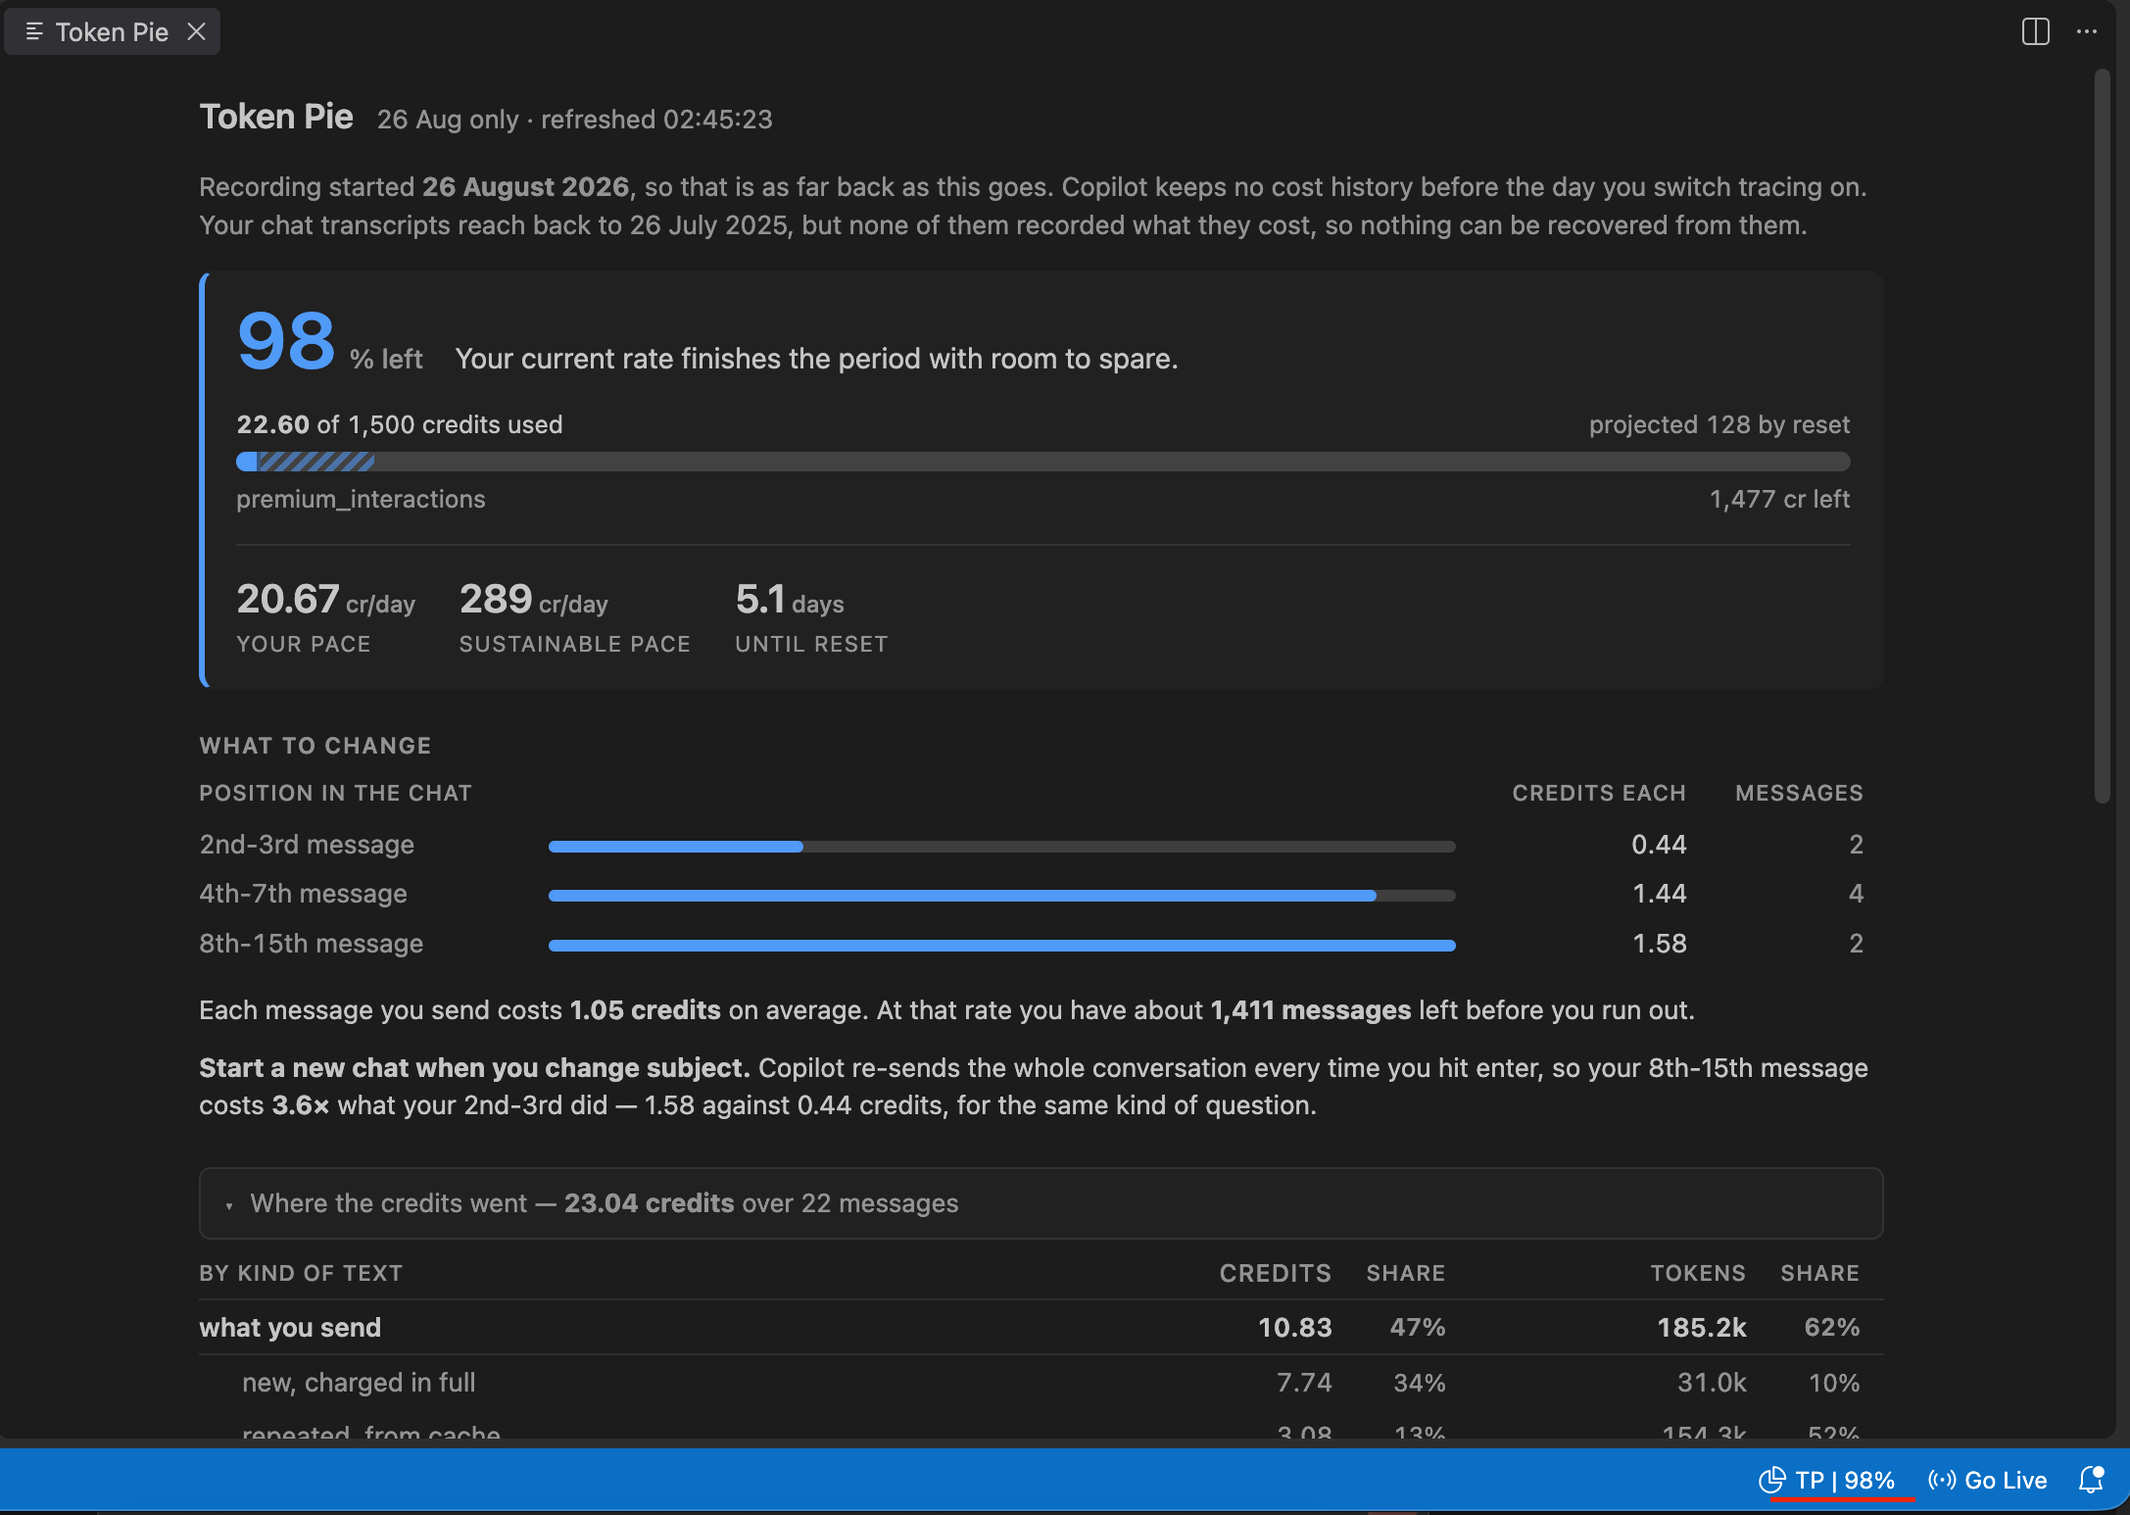
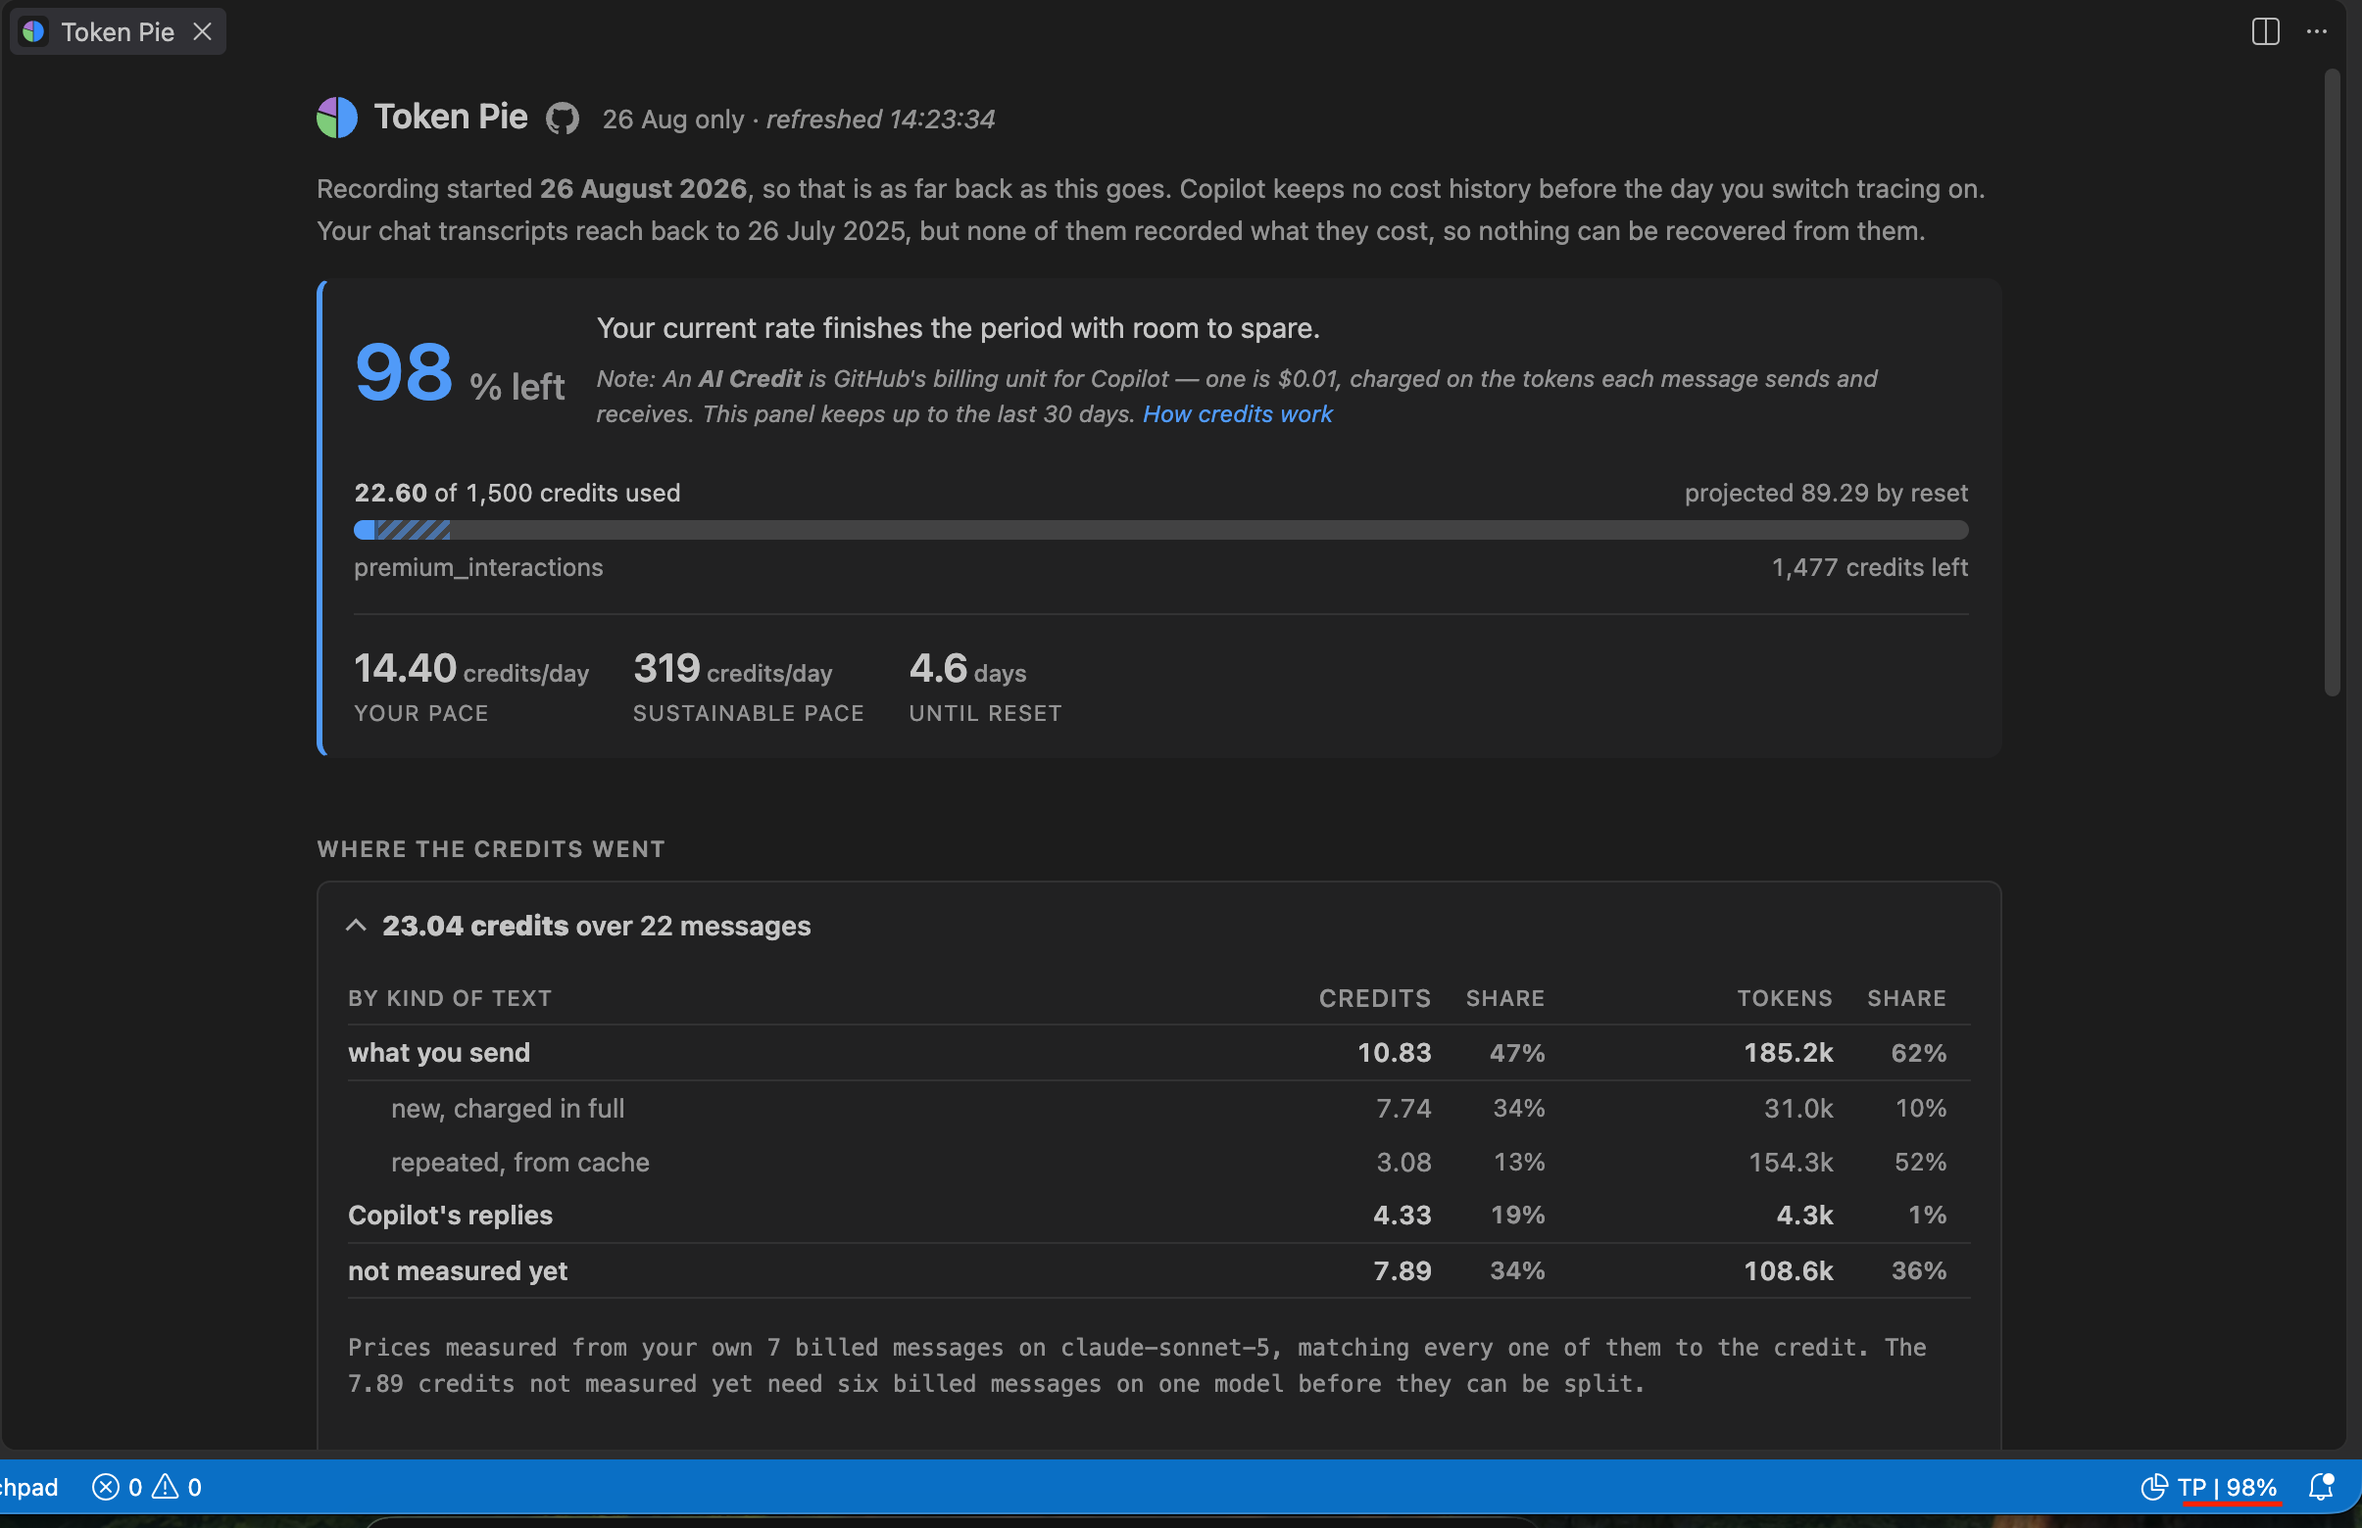
fix: aesthetic improvements

diff --git a/CHANGELOG.md b/CHANGELOG.md
@@ -2,40 +2,46 @@
 
 ## 0.1.7
 
-Fixes the **What to change** section showing no recommendations on accounts with
-a large allowance. A finding had to be worth 1% of the credits you have left, so
-on a plan with a few thousand credits remaining nothing qualified until you were
-already close to the cap. A recommendation now also appears when it accounts for
-a real share of what you have actually spent.
+### Fixed
 
-Recommendations are still withheld below ten messages of history, where there is
-not yet enough to call anything a habit.
+- **Recommendations never appeared on accounts with a large allowance.** A
+  finding had to be worth 1% of the credits remaining, so on a plan with a few
+  thousand left nothing qualified until you were already near the cap — the
+  **What to change** section stayed empty however much you spent. A
+  recommendation now also appears when it accounts for a real share of what you
+  have actually spent.
+- The timestamp beside the title no longer drifts out of line with it.
 
-Findings that give an upper bound rather than a measurement now say, on hover,
-what the bound assumes.
+### Changed
 
-Layout: recommendations no longer sit flush against each other or against the
-text above them, and the advice text is shorter. Every collapsible section now
-shares one header style and a clearer chevron, so it is obvious what can be
-opened. **Where the credits went** is now its own section rather than appearing
-to be part of **What to change**, so recommendations are no longer mixed in with
-reference figures, and it now comes first — advice about spend you have not
-looked at yet is hard to act on. Recommendations start collapsed.
+- **Where the credits went** is its own section and now comes first; advice
+  about spend you have not looked at yet is hard to act on. It was previously
+  indistinguishable from a recommendation.
+- Recommendations start collapsed, share one header style with the breakdowns,
+  and carry a clearer chevron so it is obvious what can be opened.
+- Spend is labelled **credits** everywhere; some figures previously read `cr`.
+- The chart of cost by position in the chat no longer occupies the top of
+  **What to change** — it restated the sentence beneath it, and a
+  cost-per-message figure cannot tell you whether the habit is worth changing.
+  The recommendation now says how much of your spend sits in long threads, and
+  the per-position figures moved into **Where the credits went**.
+- Advice text is shorter, and sections no longer sit flush against each other.
 
-The title carries the pie mark, and a line under it says what a credit actually
-is, what it is worth, and how far back the panel keeps history, with a link to
-GitHub's own documentation, and a GitHub mark linking to the repository.
+### Added
 
-Spend is now labelled **credits** everywhere; some figures previously read
-`cr`.
+- A line under the title saying what an AI Credit is, what it is worth, and how
+  far back the panel keeps history, linking to GitHub's own documentation.
+- The pie mark on the title and the report tab, and a GitHub mark linking to the
+  repository. Links open in your browser rather than replacing the panel.
+- Findings that give an upper bound rather than a measurement now say, on hover,
+  what the bound assumes.
 
-The chart of cost by position in the chat no longer occupies the top of **What
-to change**. It restated what the sentence below it already said, and a
-cost-per-message figure cannot tell you whether the habit is worth changing. The
-recommendation now says how much of your spend sits in long threads, and the
-per-position figures moved into **Where the credits went** with the other
-breakdowns. That comparison is also withheld until at least three messages sit
-in each position it compares.
+### Withheld rather than guessed
+
+- No recommendations below ten messages of history — not enough to call anything
+  a habit.
+- The cost-by-position comparison needs at least three messages in each position
+  it compares; it previously stated a multiple from as few as two.
 
 ## 0.1.6
 
